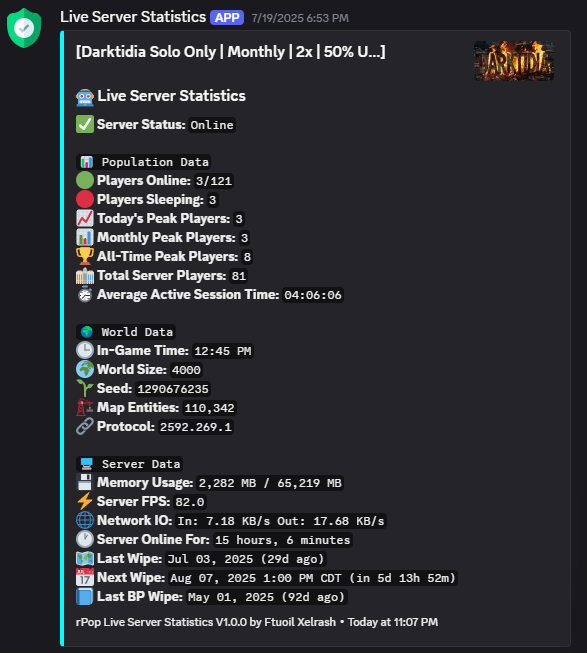
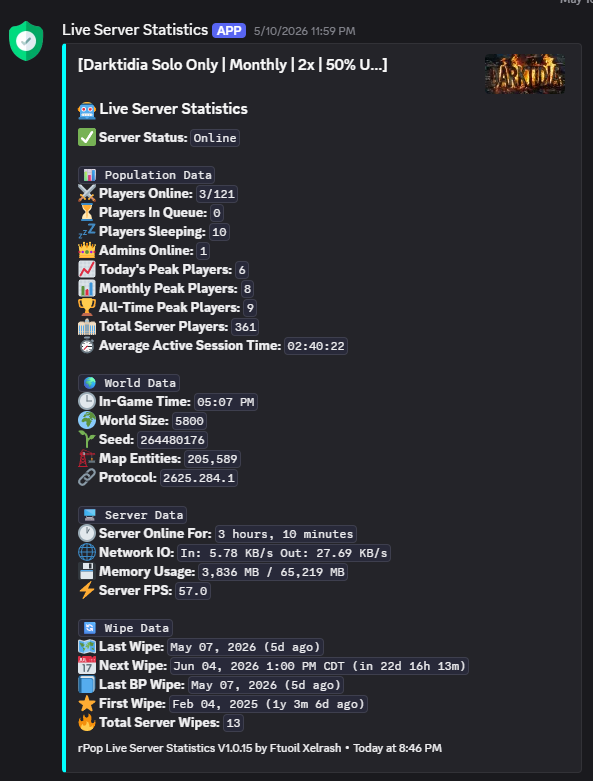
Release v1.0.15
Release v1.0.15

Changed region(s): [[0.0, 0.0, 0.7973, 1.0], [0.7973, 0.0613, 0.9506, 0.1225], [0.9506, 0.0, 0.9813, 0.0306]]

diff --git a/rPop.cs b/rPop.cs
@@ -9,7 +9,7 @@ using Newtonsoft.Json;
 
 namespace Oxide.Plugins
 {
-    [Info("Rust Population Statistics", "Ftuoil Xelrash", "1.0.10")]
+    [Info("Rust Population Statistics", "Ftuoil Xelrash", "1.0.15")]
     [Description("Displays server population statistics and sends performance updates to Discord")]
 
     public class rPop : RustPlugin
@@ -80,7 +80,7 @@ namespace Oxide.Plugins
             [JsonProperty("Last Reset Date")] public DateTime LastResetDate = DateTime.Today;
             [JsonProperty("Last Monthly Reset")] public DateTime LastMonthlyReset = new DateTime(DateTime.Now.Year, DateTime.Now.Month, 1);
             [JsonProperty("Discord Status Message ID")] public string StatusMessageId = null;
-            [JsonProperty("First Wipe Date")] public string FirstWipeDate = null;
+            [JsonProperty("First Wipe Date")] public DateTime FirstWipeDate = DateTime.MinValue;
             [JsonProperty("Total Server Wipes")] public int TotalServerWipes = 0;
         }
 
@@ -288,9 +288,9 @@ namespace Oxide.Plugins
                     SaveData();
                 }
 
-                if (string.IsNullOrEmpty(pluginData.FirstWipeDate))
+                if (pluginData.FirstWipeDate == DateTime.MinValue)
                 {
-                    pluginData.FirstWipeDate = DateTime.Today.ToString("MMM dd, yyyy");
+                    pluginData.FirstWipeDate = DateTime.Today;
                     pluginData.TotalServerWipes = 1;
                     SaveData();
                     Puts("First wipe date initialized.");
@@ -544,14 +544,15 @@ namespace Oxide.Plugins
                 {
                     return $"{blueprintWipe:MMM dd, yyyy} ({(int)timeSinceWipe.TotalHours}h ago)";
                 }
-                else if (timeSinceWipe.TotalDays < 7)
-                {
-                    return $"{blueprintWipe:MMM dd, yyyy} ({(int)timeSinceWipe.TotalDays}d ago)";
-                }
-                else
-                {
-                    return $"{blueprintWipe:MMM dd, yyyy} ({(int)timeSinceWipe.TotalDays}d ago)";
-                }
+                int totalDays = (int)timeSinceWipe.TotalDays;
+                int years  = totalDays / 365;
+                int months = (totalDays % 365) / 30;
+                int days   = (totalDays % 365) % 30;
+                string elapsedParts = "";
+                if (years  > 0) elapsedParts += $"{years}y ";
+                if (months > 0) elapsedParts += $"{months}m ";
+                if (days   > 0) elapsedParts += $"{days}d ";
+                return $"{blueprintWipe:MMM dd, yyyy} ({elapsedParts.TrimEnd()} ago)";
             }
             catch (Exception ex)
             {
@@ -864,17 +865,17 @@ namespace Oxide.Plugins
             int maxPlayers = ConVar.Server.maxplayers;
             int adminCount = BasePlayer.activePlayerList.Count(p => p.IsAdmin);
 
-            string statsMessage = $"<color=#FFD700><size=14>Population Stats:</size></color>\n" +
+            string statsMessage = $"<color=#00BFFF><size=14>Population Stats:</size></color>\n" +
                                 $"<color=#00FF00>Players Online:</color> <color=#FFFFFF>{playerCount}/{maxPlayers}</color>";
 
             if (config.Settings.ShowPlayersJoining && (!config.Settings.HideZeroValues || joiningPlayers > 0))
                 statsMessage += $"\n<color=#FFFF00>Players Joining:</color> <color=#FFFFFF>{joiningPlayers}</color>";
 
             if (config.Settings.ShowPlayersSleeping && (!config.Settings.HideZeroValues || sleepingPlayers > 0))
-                statsMessage += $"\n<color=#FF0000>Players Sleeping:</color> <color=#FFFFFF>{sleepingPlayers}</color>";
+                statsMessage += $"\n<color=#FFA500>Players Sleeping:</color> <color=#FFFFFF>{sleepingPlayers}</color>";
 
             if (config.Settings.ShowAdminsOnline && (!config.Settings.HideZeroValues || adminCount > 0))
-                statsMessage += $"\n<color=#FFB6C1>Admins Online:</color> <color=#FFFFFF>{adminCount}</color>";
+                statsMessage += $"\n<color=#FF0000>Admins Online:</color> <color=#FFFFFF>{adminCount}</color>";
 
             foreach (var onlinePlayer in BasePlayer.activePlayerList)
                 onlinePlayer?.ChatMessage(statsMessage);
@@ -900,16 +901,16 @@ namespace Oxide.Plugins
 
             lastWipeCommandTime = now;
 
-            string wipeMessage = $"<color=#FFD700><size=14>Wipe Information:</size></color>";
+            string wipeMessage = $"<color=#00BFFF><size=14>Wipe Information:</size></color>";
 
             if (config.Settings.ShowLastWipeDate)
-                wipeMessage += $"\n<color=#FFA500>Last Wipe:</color> <color=#FFFFFF>{GetLastWipeDate()}</color>";
+                wipeMessage += $"\n<color=#00FF00>Current Wipe:</color> <color=#FFFFFF>{GetLastWipeDate()}</color>";
+
+            if (config.Settings.ShowNextWipeDate)
+                wipeMessage += $"\n<color=#FFFF00>Next Wipe:</color> <color=#FFFFFF>{GetFormattedNextWipeDate()}</color>";
 
             if (config.Settings.ShowLastBlueprintWipeDate)
                 wipeMessage += $"\n<color=#ADD8E6>Last BP Wipe:</color> <color=#FFFFFF>{GetFormattedBlueprintWipeDate()}</color>";
-
-            if (config.Settings.ShowNextWipeDate)
-                wipeMessage += $"\n<color=#00BFFF>Next Wipe:</color> <color=#FFFFFF>{GetFormattedNextWipeDate()}</color>";
 
             foreach (var onlinePlayer in BasePlayer.activePlayerList)
                 onlinePlayer?.ChatMessage(wipeMessage);
@@ -998,16 +999,36 @@ namespace Oxide.Plugins
                 message += $"\n\n`🔄 Wipe Data`\n" +
                           $"🗺 **Last Wipe:** `{lastWipeDate}`";
 
-                if (config.Settings.ShowLastBlueprintWipeDate)
-                    message += $"\n📘 **Last BP Wipe:** `{lastBpWipeDate}`";
-
                 if (config.Settings.ShowNextWipeDate)
                     message += $"\n📅 **Next Wipe:** `{nextWipeDate}`";
 
-                if (config.Settings.ShowFirstWipeDate && !string.IsNullOrEmpty(pluginData.FirstWipeDate))
-                    message += $"\n⭐ **First Wipe:** `{pluginData.FirstWipeDate}`";
+                if (config.Settings.ShowLastBlueprintWipeDate)
+                    message += $"\n📘 **Last BP Wipe:** `{lastBpWipeDate}`";
 
-                if (config.Settings.ShowTotalServerWipes && !string.IsNullOrEmpty(pluginData.FirstWipeDate))
+                if (config.Settings.ShowFirstWipeDate && pluginData.FirstWipeDate != DateTime.MinValue)
+                {
+                    TimeSpan sinceFirstWipe = DateTime.Now - pluginData.FirstWipeDate;
+                    string elapsed;
+                    if (sinceFirstWipe.TotalDays < 1)
+                    {
+                        elapsed = $"{(int)sinceFirstWipe.TotalHours}h ago";
+                    }
+                    else
+                    {
+                        int totalDays = (int)sinceFirstWipe.TotalDays;
+                        int years  = totalDays / 365;
+                        int months = (totalDays % 365) / 30;
+                        int days   = (totalDays % 365) % 30;
+                        string elapsedParts = "";
+                        if (years  > 0) elapsedParts += $"{years}y ";
+                        if (months > 0) elapsedParts += $"{months}m ";
+                        if (days   > 0) elapsedParts += $"{days}d ";
+                        elapsed = elapsedParts.TrimEnd() + " ago";
+                    }
+                    message += $"\n⭐ **First Wipe:** `{pluginData.FirstWipeDate:MMM dd, yyyy} ({elapsed})`";
+                }
+
+                if (config.Settings.ShowTotalServerWipes && pluginData.FirstWipeDate != DateTime.MinValue)
                     message += $"\n🔥 **Total Server Wipes:** `{pluginData.TotalServerWipes}`";
 
                 int embedColor = _isOnline ? 65535 : 16711680;

diff --git a/README.md b/README.md
@@ -2,7 +2,7 @@
 
 ![Rust](https://img.shields.io/badge/Game-Rust-orange)
 ![Umod](https://img.shields.io/badge/Framework-Umod-blue)
-![Version](https://img.shields.io/badge/Version-1.0.6-green)
+![Version](https://img.shields.io/badge/Version-1.0.15-green)
 ![License](https://img.shields.io/badge/License-MIT-yellow)
 
 A comprehensive Umod plugin for Rust servers that tracks and reports server performance statistics and population data to Discord in real-time with automatic message editing and instant population updates.
@@ -36,8 +36,10 @@ A comprehensive Umod plugin for Rust servers that tracks and reports server perf
 - **In-game time** display with 12-hour format
 - **World size** and **seed** information
 - **Last wipe date** with intelligent time elapsed formatting
-- **Blueprint wipe tracking** with separate date tracking
+- **Blueprint wipe tracking** with separate date tracking and years/months/days elapsed display
 - **Next wipe prediction** - Automatic first Thursday calculation with timezone support
+- **First wipe tracking** - Records the date the plugin first started tracking wipes
+- **Total server wipes counter** - Automatically increments on every detected map wipe
 - **Server protocol** version display (network.save.report format)
 - **Timezone awareness** - Automatic server timezone detection and display
 
@@ -96,6 +98,8 @@ The plugin creates a comprehensive configuration file at `oxide/config/rPop.json
     "Show Last Wipe Date": true,
     "Show Last Blueprint Wipe Date": true,
     "Show Next Wipe Date": true,
+    "Show First Wipe Date": true,
+    "Show Total Server Wipes": true,
     "Show Network IO": true,
     "Show Protocol": true,
     "Show Server Status": true
@@ -234,7 +238,9 @@ The plugin manages data in `oxide/data/rPop.json`:
   },
   "Last Reset Date": "2025-01-15T00:00:00",
   "Last Monthly Reset": "2025-01-01T00:00:00",
-  "Discord Status Message ID": "1234567890123456789"
+  "Discord Status Message ID": "1234567890123456789",
+  "First Wipe Date": "2023-10-25T00:00:00",
+  "Total Server Wipes": 14
 }
 ```
 
@@ -308,12 +314,12 @@ The plugin manages data in `oxide/data/rPop.json`:
 
 🔄 Wipe Data
 🗺 Last Wipe: Jan 15, 2025 (2d ago)
-📘 Last BP Wipe: Jan 01, 2025 (16d ago)
 📅 Next Wipe: Feb 06, 2025 1:00 PM CST (in 21d 18h 30m)
-⭐ First Wipe: Jan 15, 2025
-🔥 Total Server Wipes: 1
+📘 Last BP Wipe: Jan 01, 2024 (1y 15d ago)
+⭐ First Wipe: Oct 25, 2023 (1y 2m 21d ago)
+🔥 Total Server Wipes: 14
 
-rPop Live Server Statistics V1.0.5 by Ftuoil Xelrash
+rPop Live Server Statistics V1.0.14 by Ftuoil Xelrash
 ```
 
 ## 🕐 Wipe Schedule System
@@ -561,7 +567,7 @@ This project is licensed under the MIT License - see the [LICENSE](LICENSE) file
 ### Issue Template
 When reporting bugs, please include:
 ```
-**Plugin Version:** 1.0.5
+**Plugin Version:** 1.0.15
 **Umod Version:** [Your Version]
 **Server Population:** [Typical player count]
 **Error Message:** [Full console output]
